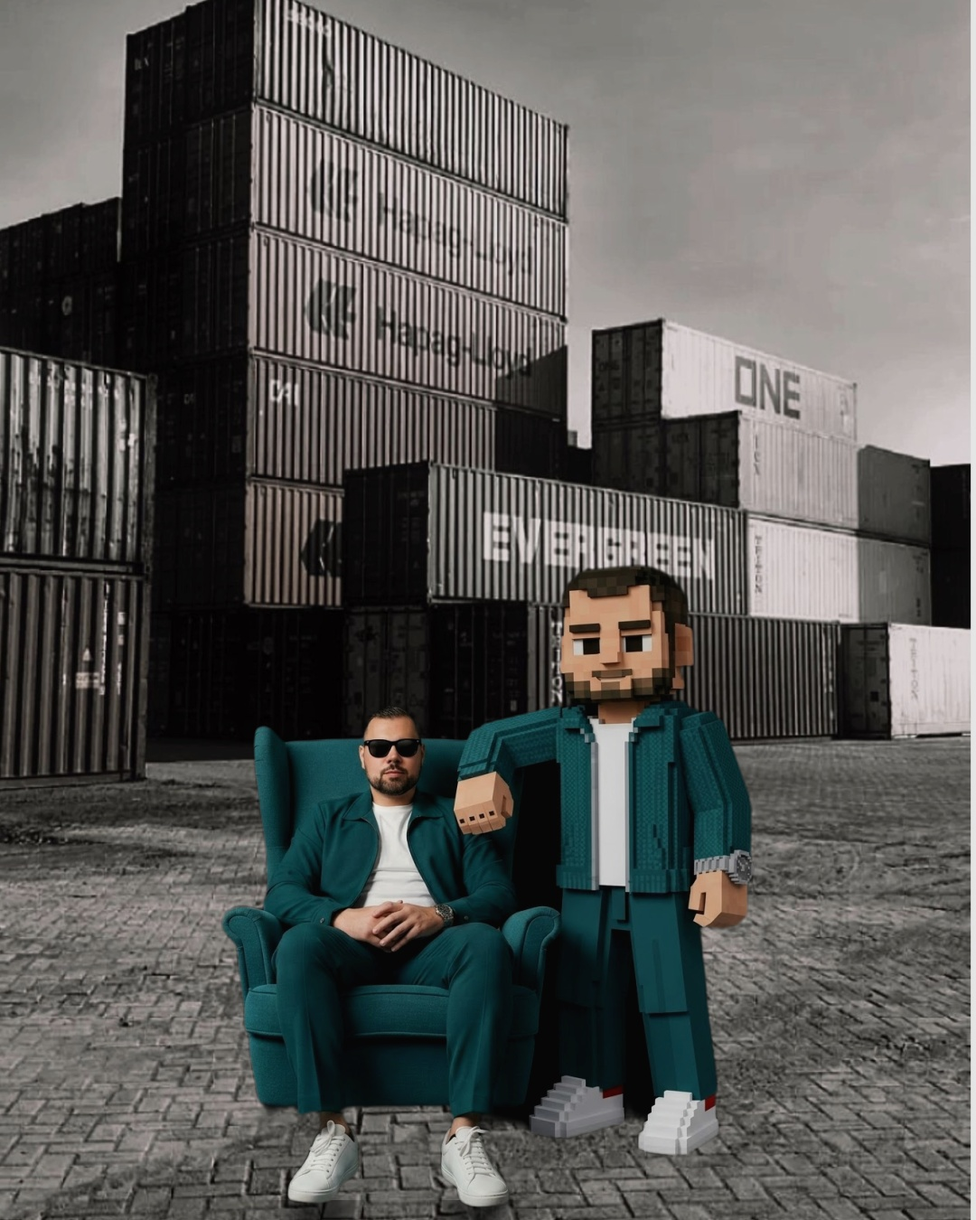
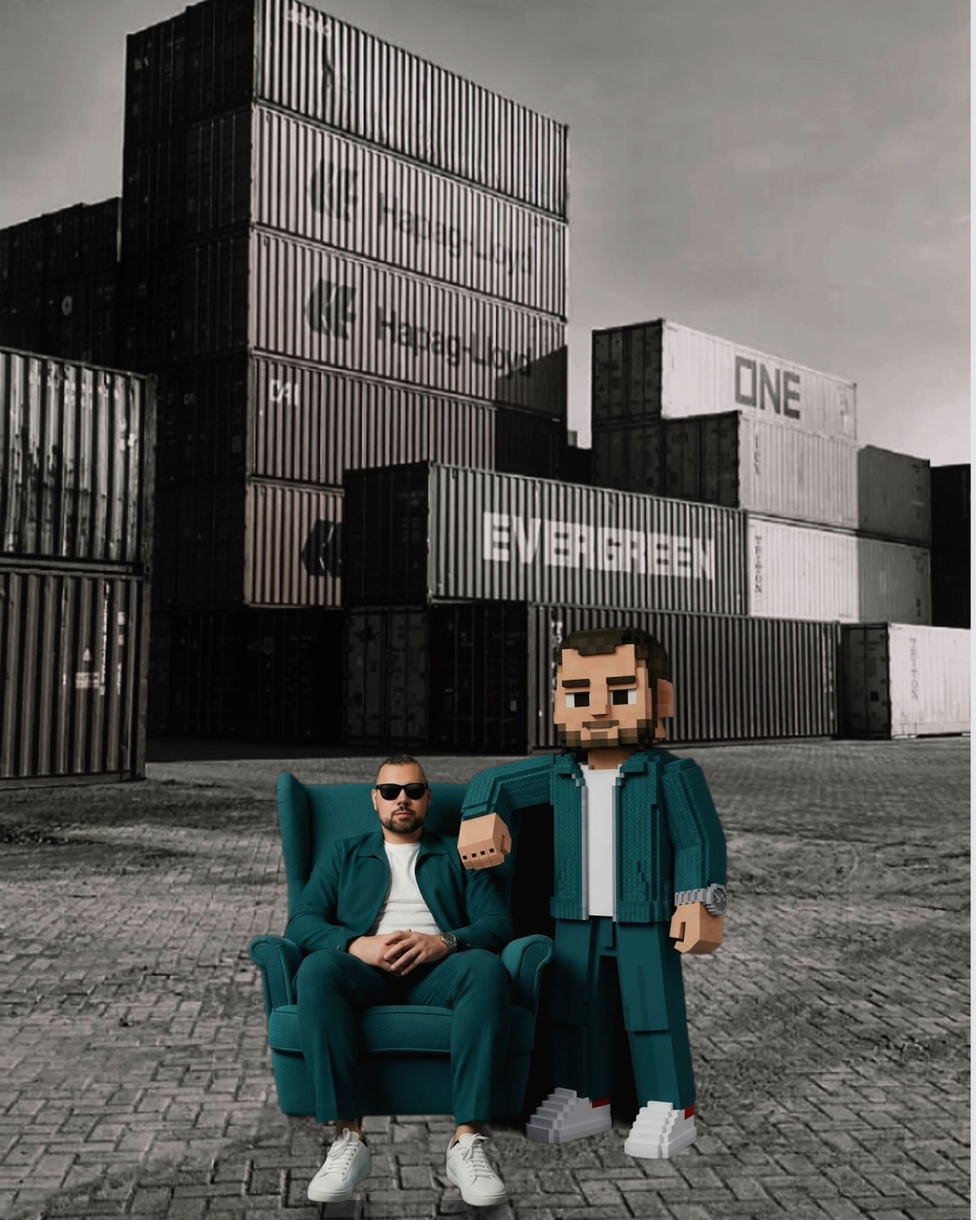
find-skills: portada con asfalto y diseño más minimalista
Asfalto como portada, contenedores en la slide 4, paneles sin caja,
textos más cortos y más aire entre elementos.

Claude-Session: https://claude.ai/code/session_018d4LXHkXweDJXxfN5x99dL

Changed region(s): [[0.2139, 0.4356, 0.7944, 1.0]]

diff --git a/carruseles/find-skills/carrusel.html b/carruseles/find-skills/carrusel.html
@@ -10,6 +10,7 @@ body{background:#333;font-family:"Montserrat",Arial,sans-serif;display:flex;flex
 .ph img{display:block;width:100%;height:auto}
 .bleed{position:absolute;inset:0;width:100%;height:100%;object-fit:cover}
 .shade{position:absolute;inset:0;background:linear-gradient(180deg,rgba(0,0,0,.66) 0,rgba(0,0,0,.34) 30%,rgba(0,0,0,0) 48%)}
+.shade.long{background:linear-gradient(180deg,rgba(0,0,0,.88) 0,rgba(0,0,0,.84) 38%,rgba(0,0,0,.55) 50%,rgba(0,0,0,0) 61%)}
 .n{position:absolute;top:50px;right:60px;z-index:5;background:rgba(40,40,40,.78);border:1px solid rgba(255,255,255,.18);color:#fff;font-weight:700;font-size:23px;padding:9px 20px;border-radius:99px}
 .kick{position:absolute;z-index:5;left:64px;top:62px;font-weight:800;font-size:24px;letter-spacing:.3em;text-transform:uppercase;color:#e8e8e2;display:flex;align-items:center;gap:16px}
 .kick i{width:46px;height:3px;background:var(--lime);display:block}
@@ -18,46 +19,47 @@ body{background:#333;font-family:"Montserrat",Arial,sans-serif;display:flex;flex
 .h .pill{display:inline-block;background:var(--lime);color:#0a0a0a;border-radius:18px;padding:0 22px 6px;margin-left:6px;text-shadow:none}
 .sub{position:absolute;z-index:5;left:64px;right:64px;top:318px;font-weight:600;font-size:31px;line-height:1.3;color:#ececE6;letter-spacing:-0.01em;text-shadow:0 2px 18px rgba(0,0,0,.6)}
 .sub b{color:#fff;font-weight:800}
-.panel{position:absolute;z-index:5;left:40px;right:40px;border-radius:34px;padding:12px 34px;background:linear-gradient(180deg,rgba(12,12,12,.58),rgba(12,12,12,.46));border:1.5px solid rgba(255,255,255,.24);backdrop-filter:blur(18px);-webkit-backdrop-filter:blur(18px);box-shadow:0 30px 60px -30px rgba(0,0,0,.8)}
-.row{display:flex;gap:24px;align-items:center;padding:14px 0;border-bottom:1px solid rgba(255,255,255,.2)}
+.panel{position:absolute;z-index:5;left:64px;right:64px}
+.panel{text-shadow:0 2px 14px rgba(0,0,0,.7)}
+.row{display:flex;gap:24px;align-items:center;padding:20px 0;border-bottom:1px solid rgba(255,255,255,.22)}
 .row.last{border-bottom:0}
 .cmp .row{padding:10px 0}.cmp .note{padding-bottom:10px}
-.cols{display:grid;grid-template-columns:repeat(3,1fr);gap:20px;padding:4px 0 14px}.cols>div{display:flex;flex-direction:column;gap:6px}.cols svg{width:44px;height:44px;color:#fff;margin-bottom:2px}.cols b{font-weight:800;font-size:27px;letter-spacing:-0.02em}.cols span{font-weight:500;font-size:21px;line-height:1.3;color:#dcdcd5}.cols code{font-family:"Courier New",monospace;font-weight:700;font-size:19px;word-break:break-all}
+.cols{display:grid;grid-template-columns:repeat(3,1fr);gap:28px;padding:6px 0 0}.cols>div{display:flex;flex-direction:column;gap:6px}.cols svg{width:44px;height:44px;color:#fff;margin-bottom:2px}.cols b{font-weight:800;font-size:27px;letter-spacing:-0.02em}.cols span{font-weight:500;font-size:21px;line-height:1.3;color:#dcdcd5}.cols code{font-family:"Courier New",monospace;font-weight:700;font-size:19px;word-break:break-all}
 .row .ic{flex:none;width:58px;height:58px;color:#fff;display:flex;align-items:center;justify-content:center}.row .ic svg{width:50px;height:50px}
 .row b{display:block;font-weight:800;font-size:30px;letter-spacing:-0.02em;line-height:1.15}
 .row span{display:block;font-weight:500;font-size:23px;line-height:1.3;color:#dcdcd5;margin-top:3px}
 .row code,.code{font-family:"Courier New",monospace;font-weight:700}
-.ph2{font-weight:800;font-size:30px;letter-spacing:-0.02em;padding:14px 0 8px}
-.chips{display:flex;flex-direction:column;gap:10px;align-items:flex-start;padding-bottom:16px;border-bottom:1px solid rgba(255,255,255,.2)}
-.chips span{border:1.5px solid rgba(255,255,255,.55);border-radius:99px;padding:9px 22px;font-weight:500;font-size:24px}
-.code{font-size:20px;line-height:1.35;padding:18px 4px 6px;color:#fff;word-break:break-all}
-.note{font-size:23px;font-weight:500;color:#dcdcd5;padding:4px 4px 16px;border-bottom:1px solid rgba(255,255,255,.2)}
+.ph2{font-weight:800;font-size:30px;letter-spacing:-0.02em;padding:8px 0 16px}
+.chips{display:flex;flex-direction:column;gap:14px;align-items:flex-start;padding:4px 0 26px;border-bottom:1px solid rgba(255,255,255,.22)}
+.chips span{border:1.5px solid rgba(255,255,255,.5);border-radius:99px;padding:11px 26px;font-weight:500;font-size:24px}
+.code{font-size:20px;line-height:1.4;padding:6px 0 10px;color:#fff;word-break:break-all}
+.note{font-size:23px;font-weight:500;color:#dcdcd5;padding:4px 0 22px;border-bottom:1px solid rgba(255,255,255,.22)}
 .foot{position:absolute;z-index:6;right:64px;bottom:34px;text-align:right;font-weight:700;font-size:19px;letter-spacing:.18em;text-transform:uppercase;color:rgba(255,255,255,.75);text-shadow:0 2px 12px rgba(0,0,0,.9)}
 </style></head><body>
-<section class="slide"><img class="bleed" src="img/f1.jpg"><div class="shade"></div><div class="n">1/7</div><div class="kick"><i></i>Find skills</div><div class="h" style="font-size:88px">Instala una sola skill.<br><span class="l">Que sea esta.</span></div><div class="sub">La más instalada de skills.sh: <b>más de 3 millones</b> de instalaciones.</div><div class="foot"><span>@funnelslabs</span></div></section><section class="slide"><img class="bleed" src="img/f2.jpg"><div class="shade"></div><div class="n">2/7</div><div class="kick"><i></i>Find skills</div><div class="h" style="font-size:84px">Claude no sabe<br><span class="l">qué skills existen.</span></div>
-<div class="panel" style="top:296px">
-<div class="row"><span class="ic"><svg viewBox="0 0 24 24" fill="none" stroke="currentColor" stroke-width="1.7" stroke-linecap="round" stroke-linejoin="round"><path d="M4 5.5c3-1.4 5.7-1.2 8 .6 2.3-1.8 5-2 8-.6v13c-3-1.4-5.7-1.2-8 .6-2.3-1.8-5-2-8-.6z"/><path d="M12 6.1v13"/></svg></span><div><b>Qué es una skill</b><span>Un archivo de instrucciones que le enseña una tarea nueva a Claude.</span></div></div>
-<div class="row"><span class="ic"><svg viewBox="0 0 24 24" fill="none" stroke="currentColor" stroke-width="1.7" stroke-linecap="round" stroke-linejoin="round"><circle cx="10.5" cy="10.5" r="6"/><path d="M15 15l5.5 5.5"/></svg></span><div><b>Qué hace find-skills</b><span>Busca en el catálogo la que necesitas y te ayuda a instalarla.</span></div></div>
-<div class="row last"><span class="ic"><svg viewBox="0 0 24 24" fill="none" stroke="currentColor" stroke-width="1.7" stroke-linecap="round" stroke-linejoin="round"><circle cx="12" cy="12" r="9"/><path d="M9.3 9.5a2.8 2.8 0 1 1 4.3 2.4c-.9.6-1.6 1.1-1.6 2.3"/><circle cx="12" cy="17.3" r=".6" fill="currentColor"/></svg></span><div><b>Por qué la necesitas</b><span>Sin ella, tendrías que buscar y probar skills una por una.</span></div></div>
-</div><div class="foot"><span>@funnelslabs</span></div></section><section class="slide"><img class="bleed" src="img/f3.jpg"><div class="shade"></div><div class="n">3/7</div><div class="kick"><i></i>Find skills</div><div class="h" style="font-size:84px">Dile qué necesitas,<br><span class="l">sin saber el nombre.</span></div>
-<div class="panel" style="top:296px">
-<div class="ph2">Pídeselo con tus propias palabras</div>
-<div class="chips"><span>¿Cómo respondo más rápido mis mensajes de WhatsApp?</span><span>Busca una skill para crear mis carruseles.</span><span>¿Existe una skill que revise la ortografía de mis textos?</span></div>
-<div class="row last"><span class="ic"><svg viewBox="0 0 24 24" fill="none" stroke="currentColor" stroke-width="1.7" stroke-linecap="round" stroke-linejoin="round"><path d="M12 3l7.5 3v5.5c0 4.5-3.2 8-7.5 9.5-4.3-1.5-7.5-5-7.5-9.5V6z"/><path d="M9 12l2.2 2.2L15.5 10"/></svg></span><div><b>Antes de instalarla</b><span>Revisa sus auditorías de seguridad en skills.sh. Una skill puede hacer lo mismo que tu Claude.</span></div></div>
-</div><div class="foot"><span>@funnelslabs</span></div></section><section class="slide"><img class="bleed" src="img/asfalto.png"><div class="shade"></div><div class="n">4/7</div><div class="kick"><i></i>Find skills</div><div class="h" style="font-size:96px">Una skill para<br><span class="l">encontrarlas todas.</span></div><div class="sub">Tú le dices qué necesitas. Ella busca por ti.</div><div class="foot"><span>@funnelslabs</span></div></section><section class="slide"><img class="bleed" src="img/f5.jpg"><div class="shade"></div><div class="n">5/7</div><div class="kick"><i></i>Find skills</div><div class="h" style="font-size:84px">Instálala con<br><span class="l">un solo comando.</span></div>
-<div class="panel cmp" style="top:296px">
+<section class="slide"><img class="bleed" src="img/asfalto.png"><div class="shade"></div><div class="n">1/7</div><div class="kick"><i></i>Find skills</div><div class="h" style="font-size:88px">Instala una sola skill.<br><span class="l">Que sea esta.</span></div><div class="sub">La más instalada de skills.sh: <b>más de 3 millones</b> de instalaciones.</div><div class="foot"><span>@funnelslabs</span></div></section><section class="slide"><img class="bleed" src="img/f2.jpg"><div class="shade long"></div><div class="n">2/7</div><div class="kick"><i></i>Find skills</div><div class="h" style="font-size:84px">Claude no sabe<br><span class="l">qué skills existen.</span></div>
+<div class="panel" style="top:340px">
+<div class="row"><span class="ic"><svg viewBox="0 0 24 24" fill="none" stroke="currentColor" stroke-width="1.7" stroke-linecap="round" stroke-linejoin="round"><path d="M4 5.5c3-1.4 5.7-1.2 8 .6 2.3-1.8 5-2 8-.6v13c-3-1.4-5.7-1.2-8 .6-2.3-1.8-5-2-8-.6z"/><path d="M12 6.1v13"/></svg></span><div><b>Qué es una skill</b><span>Instrucciones que le enseñan una tarea nueva a Claude.</span></div></div>
+<div class="row"><span class="ic"><svg viewBox="0 0 24 24" fill="none" stroke="currentColor" stroke-width="1.7" stroke-linecap="round" stroke-linejoin="round"><circle cx="10.5" cy="10.5" r="6"/><path d="M15 15l5.5 5.5"/></svg></span><div><b>Qué hace find-skills</b><span>Busca la que necesitas y te ayuda a instalarla.</span></div></div>
+<div class="row last"><span class="ic"><svg viewBox="0 0 24 24" fill="none" stroke="currentColor" stroke-width="1.7" stroke-linecap="round" stroke-linejoin="round"><circle cx="12" cy="12" r="9"/><path d="M9.3 9.5a2.8 2.8 0 1 1 4.3 2.4c-.9.6-1.6 1.1-1.6 2.3"/><circle cx="12" cy="17.3" r=".6" fill="currentColor"/></svg></span><div><b>Por qué la necesitas</b><span>Sin ella, buscarías skills una por una.</span></div></div>
+</div><div class="foot"><span>@funnelslabs</span></div></section><section class="slide"><img class="bleed" src="img/f3.jpg"><div class="shade long"></div><div class="n">3/7</div><div class="kick"><i></i>Find skills</div><div class="h" style="font-size:84px">Dile qué necesitas,<br><span class="l">sin saber el nombre.</span></div>
+<div class="panel" style="top:340px">
+<div class="ph2">Pídeselo con tus palabras</div>
+<div class="chips"><span>¿Cómo respondo más rápido en WhatsApp?</span><span>Busca una skill para mis carruseles.</span><span>¿Hay una skill que revise mi ortografía?</span></div>
+<div class="row last"><span class="ic"><svg viewBox="0 0 24 24" fill="none" stroke="currentColor" stroke-width="1.7" stroke-linecap="round" stroke-linejoin="round"><path d="M12 3l7.5 3v5.5c0 4.5-3.2 8-7.5 9.5-4.3-1.5-7.5-5-7.5-9.5V6z"/><path d="M9 12l2.2 2.2L15.5 10"/></svg></span><div><b>Antes de instalarla</b><span>Revisa sus auditorías de seguridad en skills.sh.</span></div></div>
+</div><div class="foot"><span>@funnelslabs</span></div></section><section class="slide"><img class="bleed" src="img/f4.jpg"><div class="shade"></div><div class="n">4/7</div><div class="kick"><i></i>Find skills</div><div class="h" style="font-size:96px">Una skill para<br><span class="l">encontrarlas todas.</span></div><div class="sub">Tú le dices qué necesitas. Ella busca por ti.</div><div class="foot"><span>@funnelslabs</span></div></section><section class="slide"><img class="bleed" src="img/f5.jpg"><div class="shade long"></div><div class="n">5/7</div><div class="kick"><i></i>Find skills</div><div class="h" style="font-size:84px">Instálala con<br><span class="l">un solo comando.</span></div>
+<div class="panel cmp" style="top:340px">
 <div class="code">npx skills add vercel-labs/skills --skill find-skills -a claude-code -g -y</div>
-<div class="note">Pégalo en tu terminal. Queda disponible en todos tus proyectos.</div>
-<div class="ph2" style="margin-top:8px;padding-bottom:2px">3 formas de buscar</div>
+<div class="note">Pégalo en tu terminal.</div>
+<div class="ph2" style="margin-top:22px">3 formas de buscar</div>
 <div class="cols">
 <div><svg viewBox="0 0 24 24" fill="none" stroke="currentColor" stroke-width="1.7" stroke-linecap="round" stroke-linejoin="round"><path d="M4 5h16v11H9.5L5 20v-4H4z"/></svg><b>En Claude</b><span>Pídeselo como hablas.</span></div>
 <div><svg viewBox="0 0 24 24" fill="none" stroke="currentColor" stroke-width="1.7" stroke-linecap="round" stroke-linejoin="round"><rect x="3" y="4.5" width="18" height="15" rx="2.5"/><path d="M7 10l3 2.5L7 15M12.5 15H17"/></svg><b>En la terminal</b><span><code>npx skills find [palabra]</code></span></div>
 <div><svg viewBox="0 0 24 24" fill="none" stroke="currentColor" stroke-width="1.7" stroke-linecap="round" stroke-linejoin="round"><rect x="3" y="4.5" width="18" height="15" rx="2.5"/><path d="M3 9.5h18"/><circle cx="6" cy="7" r=".5" fill="currentColor"/><circle cx="8.2" cy="7" r=".5" fill="currentColor"/></svg><b>En la web</b><span>skills.sh: las más usadas y las nuevas.</span></div>
 </div>
-</div><div class="foot"><span>@funnelslabs</span></div></section><section class="slide"><img class="bleed" src="img/f6.jpg"><div class="shade"></div><div class="n">6/7</div><div class="kick"><i></i>Find skills</div><div class="h" style="font-size:88px">Hazla tuya,<br><span class="l">con tus reglas.</span></div>
-<div class="panel" style="top:296px">
-<div class="row"><span class="ic"><svg viewBox="0 0 24 24" fill="none" stroke="currentColor" stroke-width="1.7" stroke-linecap="round" stroke-linejoin="round"><circle cx="12" cy="12" r="9"/><path d="M10.5 9.5L12.5 8v8"/></svg></span><div><b>1 · Encuentra la skill</b><span>find-skills te muestra la que más se parece a lo que haces.</span></div></div>
-<div class="row"><span class="ic"><svg viewBox="0 0 24 24" fill="none" stroke="currentColor" stroke-width="1.7" stroke-linecap="round" stroke-linejoin="round"><path d="M4 20l1-4L16.5 4.5a2 2 0 0 1 3 3L8 19z"/><path d="M14.5 6.5l3 3"/></svg></span><div><b>2 · Pídele a Claude que la adapte</b><span>Cuéntale cómo es tu negocio y cómo trabajas.</span></div></div>
-<div class="row last"><span class="ic"><svg viewBox="0 0 24 24" fill="none" stroke="currentColor" stroke-width="1.7" stroke-linecap="round" stroke-linejoin="round"><path d="M3.5 7.5a2 2 0 0 1 2-2H10l2 2.5h6.5a2 2 0 0 1 2 2V17a2 2 0 0 1-2 2h-13a2 2 0 0 1-2-2z"/><rect x="9.5" y="12.5" width="5" height="4" rx=".8"/></svg></span><div><b>3 · Guárdala con otro nombre</b><span>Así, cuando salga una versión nueva, no pierdes tus cambios.</span></div></div>
+</div><div class="foot"><span>@funnelslabs</span></div></section><section class="slide"><img class="bleed" src="img/f6.jpg"><div class="shade long"></div><div class="n">6/7</div><div class="kick"><i></i>Find skills</div><div class="h" style="font-size:88px">Hazla tuya,<br><span class="l">con tus reglas.</span></div>
+<div class="panel" style="top:340px">
+<div class="row"><span class="ic"><svg viewBox="0 0 24 24" fill="none" stroke="currentColor" stroke-width="1.7" stroke-linecap="round" stroke-linejoin="round"><circle cx="12" cy="12" r="9"/><path d="M10.5 9.5L12.5 8v8"/></svg></span><div><b>1 · Encuentra la skill</b><span>find-skills te muestra la más parecida a lo que haces.</span></div></div>
+<div class="row"><span class="ic"><svg viewBox="0 0 24 24" fill="none" stroke="currentColor" stroke-width="1.7" stroke-linecap="round" stroke-linejoin="round"><path d="M4 20l1-4L16.5 4.5a2 2 0 0 1 3 3L8 19z"/><path d="M14.5 6.5l3 3"/></svg></span><div><b>2 · Pídele a Claude que la adapte</b><span>Cuéntale cómo es tu negocio.</span></div></div>
+<div class="row last"><span class="ic"><svg viewBox="0 0 24 24" fill="none" stroke="currentColor" stroke-width="1.7" stroke-linecap="round" stroke-linejoin="round"><path d="M3.5 7.5a2 2 0 0 1 2-2H10l2 2.5h6.5a2 2 0 0 1 2 2V17a2 2 0 0 1-2 2h-13a2 2 0 0 1-2-2z"/><rect x="9.5" y="12.5" width="5" height="4" rx=".8"/></svg></span><div><b>3 · Guárdala con otro nombre</b><span>Así no pierdes tus cambios al actualizarla.</span></div></div>
 </div><div class="foot"><span>@funnelslabs</span></div></section><section class="slide"><img class="bleed" src="img/f7.jpg"><div class="shade"></div><div class="n">7/7</div><div class="kick"><i></i>Find skills</div><div class="h" style="font-size:92px">Escribe <span class="pill">SKILLS</span><br><span class="l">y te envío la guía.</span></div><div class="sub">Con el paso a paso para instalarla y adaptarla a tu negocio.</div><div class="foot"><span>@funnelslabs</span></div></section>
 </body></html>

diff --git a/carruseles/find-skills/generar.py b/carruseles/find-skills/generar.py
@@ -17,7 +17,7 @@ def row(k,t,d,last=False): return f'<div class="row{" last" if last else ""}"><s
 
 def photo(n,W,T,dx=0,extra=''):
     return f'<div class="ph" style="width:{W}px;top:{T}px;left:{(1080-W)//2+dx}px;{extra}"><img src="img/{n}-c.png"></div>'
-def BG(n): return f'<img class="bleed" src="img/f{n}.jpg"><div class="shade"></div>'
+def BG(n): return f'<img class="bleed" src="img/f{n}.jpg"><div class="shade{" long" if n in (2,3,5,6) else ""}"></div>'
 def head(i,l1,l2,sub=None,size=88):
     s=f'<div class="n">{i}/7</div><div class="kick"><i></i>Find skills</div><div class="h" style="font-size:{size}px">{l1}<br><span class="l">{l2}</span></div>'
     if sub: s+=f'<div class="sub">{sub}</div>'
@@ -26,29 +26,29 @@ foot='<div class="foot"><span>@funnelslabs</span></div>'
 
 S=[]
 # 1 portada
-S.append(f'''<section class="slide">{BG(1)}{head(1,'Instala una sola skill.','Que sea esta.','La más instalada de skills.sh: <b>más de 3 millones</b> de instalaciones.',88)}{foot}</section>''')
+S.append(f'''<section class="slide"><img class="bleed" src="img/asfalto.png"><div class="shade"></div>{head(1,'Instala una sola skill.','Que sea esta.','La más instalada de skills.sh: <b>más de 3 millones</b> de instalaciones.',88)}{foot}</section>''')
 # 2 qué es
 S.append(f'''<section class="slide">{BG(2)}{head(2,'Claude no sabe','qué skills existen.',None,84)}
-<div class="panel" style="top:296px">
-{row('book','Qué es una skill','Un archivo de instrucciones que le enseña una tarea nueva a Claude.')}
-{row('search','Qué hace find-skills','Busca en el catálogo la que necesitas y te ayuda a instalarla.')}
-{row('help','Por qué la necesitas','Sin ella, tendrías que buscar y probar skills una por una.',True)}
+<div class="panel" style="top:340px">
+{row('book','Qué es una skill','Instrucciones que le enseñan una tarea nueva a Claude.')}
+{row('search','Qué hace find-skills','Busca la que necesitas y te ayuda a instalarla.')}
+{row('help','Por qué la necesitas','Sin ella, buscarías skills una por una.',True)}
 </div>{foot}</section>''')
 # 3 cuéntale
 S.append(f'''<section class="slide">{BG(3)}{head(3,'Dile qué necesitas,','sin saber el nombre.',None,84)}
-<div class="panel" style="top:296px">
-<div class="ph2">Pídeselo con tus propias palabras</div>
-<div class="chips"><span>¿Cómo respondo más rápido mis mensajes de WhatsApp?</span><span>Busca una skill para crear mis carruseles.</span><span>¿Existe una skill que revise la ortografía de mis textos?</span></div>
-{row('shield','Antes de instalarla','Revisa sus auditorías de seguridad en skills.sh. Una skill puede hacer lo mismo que tu Claude.',True)}
+<div class="panel" style="top:340px">
+<div class="ph2">Pídeselo con tus palabras</div>
+<div class="chips"><span>¿Cómo respondo más rápido en WhatsApp?</span><span>Busca una skill para mis carruseles.</span><span>¿Hay una skill que revise mi ortografía?</span></div>
+{row('shield','Antes de instalarla','Revisa sus auditorías de seguridad en skills.sh.',True)}
 </div>{foot}</section>''')
 # 4 afirmación (asfalto a sangre)
-S.append(f'''<section class="slide"><img class="bleed" src="img/asfalto.png"><div class="shade"></div>{head(4,'Una skill para','encontrarlas todas.','Tú le dices qué necesitas. Ella busca por ti.',96)}{foot}</section>''')
+S.append(f'''<section class="slide">{BG(4)}{head(4,'Una skill para','encontrarlas todas.','Tú le dices qué necesitas. Ella busca por ti.',96)}{foot}</section>''')
 # 5 instalar
 S.append(f'''<section class="slide">{BG(5)}{head(5,'Instálala con','un solo comando.',None,84)}
-<div class="panel cmp" style="top:296px">
+<div class="panel cmp" style="top:340px">
 <div class="code">npx skills add vercel-labs/skills --skill find-skills -a claude-code -g -y</div>
-<div class="note">Pégalo en tu terminal. Queda disponible en todos tus proyectos.</div>
-<div class="ph2" style="margin-top:8px;padding-bottom:2px">3 formas de buscar</div>
+<div class="note">Pégalo en tu terminal.</div>
+<div class="ph2" style="margin-top:22px">3 formas de buscar</div>
 <div class="cols">
 <div>{ic('chat')}<b>En Claude</b><span>Pídeselo como hablas.</span></div>
 <div>{ic('term')}<b>En la terminal</b><span><code>npx skills find [palabra]</code></span></div>
@@ -57,10 +57,10 @@ S.append(f'''<section class="slide">{BG(5)}{head(5,'Instálala con','un solo com
 </div>{foot}</section>''')
 # 6 hazla tuya
 S.append(f'''<section class="slide">{BG(6)}{head(6,'Hazla tuya,','con tus reglas.',None,88)}
-<div class="panel" style="top:296px">
-{row('one','1 · Encuentra la skill','find-skills te muestra la que más se parece a lo que haces.')}
-{row('pencil','2 · Pídele a Claude que la adapte','Cuéntale cómo es tu negocio y cómo trabajas.')}
-{row('folder','3 · Guárdala con otro nombre','Así, cuando salga una versión nueva, no pierdes tus cambios.',True)}
+<div class="panel" style="top:340px">
+{row('one','1 · Encuentra la skill','find-skills te muestra la más parecida a lo que haces.')}
+{row('pencil','2 · Pídele a Claude que la adapte','Cuéntale cómo es tu negocio.')}
+{row('folder','3 · Guárdala con otro nombre','Así no pierdes tus cambios al actualizarla.',True)}
 </div>{foot}</section>''')
 # 7 CTA
 S.append(f'''<section class="slide">{BG(7)}{head(7,'Escribe <span class="pill">SKILLS</span>','y te envío la guía.','Con el paso a paso para instalarla y adaptarla a tu negocio.',92)}{foot}</section>''')
@@ -74,6 +74,7 @@ body{background:#333;font-family:"Montserrat",Arial,sans-serif;display:flex;flex
 .ph img{display:block;width:100%;height:auto}
 .bleed{position:absolute;inset:0;width:100%;height:100%;object-fit:cover}
 .shade{position:absolute;inset:0;background:linear-gradient(180deg,rgba(0,0,0,.66) 0,rgba(0,0,0,.34) 30%,rgba(0,0,0,0) 48%)}
+.shade.long{background:linear-gradient(180deg,rgba(0,0,0,.88) 0,rgba(0,0,0,.84) 38%,rgba(0,0,0,.55) 50%,rgba(0,0,0,0) 61%)}
 .n{position:absolute;top:50px;right:60px;z-index:5;background:rgba(40,40,40,.78);border:1px solid rgba(255,255,255,.18);color:#fff;font-weight:700;font-size:23px;padding:9px 20px;border-radius:99px}
 .kick{position:absolute;z-index:5;left:64px;top:62px;font-weight:800;font-size:24px;letter-spacing:.3em;text-transform:uppercase;color:#e8e8e2;display:flex;align-items:center;gap:16px}
 .kick i{width:46px;height:3px;background:var(--lime);display:block}
@@ -82,20 +83,21 @@ body{background:#333;font-family:"Montserrat",Arial,sans-serif;display:flex;flex
 .h .pill{display:inline-block;background:var(--lime);color:#0a0a0a;border-radius:18px;padding:0 22px 6px;margin-left:6px;text-shadow:none}
 .sub{position:absolute;z-index:5;left:64px;right:64px;top:318px;font-weight:600;font-size:31px;line-height:1.3;color:#ececE6;letter-spacing:-0.01em;text-shadow:0 2px 18px rgba(0,0,0,.6)}
 .sub b{color:#fff;font-weight:800}
-.panel{position:absolute;z-index:5;left:40px;right:40px;border-radius:34px;padding:12px 34px;background:linear-gradient(180deg,rgba(12,12,12,.58),rgba(12,12,12,.46));border:1.5px solid rgba(255,255,255,.24);backdrop-filter:blur(18px);-webkit-backdrop-filter:blur(18px);box-shadow:0 30px 60px -30px rgba(0,0,0,.8)}
-.row{display:flex;gap:24px;align-items:center;padding:14px 0;border-bottom:1px solid rgba(255,255,255,.2)}
+.panel{position:absolute;z-index:5;left:64px;right:64px}
+.panel{text-shadow:0 2px 14px rgba(0,0,0,.7)}
+.row{display:flex;gap:24px;align-items:center;padding:20px 0;border-bottom:1px solid rgba(255,255,255,.22)}
 .row.last{border-bottom:0}
 .cmp .row{padding:10px 0}.cmp .note{padding-bottom:10px}
-.cols{display:grid;grid-template-columns:repeat(3,1fr);gap:20px;padding:4px 0 14px}.cols>div{display:flex;flex-direction:column;gap:6px}.cols svg{width:44px;height:44px;color:#fff;margin-bottom:2px}.cols b{font-weight:800;font-size:27px;letter-spacing:-0.02em}.cols span{font-weight:500;font-size:21px;line-height:1.3;color:#dcdcd5}.cols code{font-family:"Courier New",monospace;font-weight:700;font-size:19px;word-break:break-all}
+.cols{display:grid;grid-template-columns:repeat(3,1fr);gap:28px;padding:6px 0 0}.cols>div{display:flex;flex-direction:column;gap:6px}.cols svg{width:44px;height:44px;color:#fff;margin-bottom:2px}.cols b{font-weight:800;font-size:27px;letter-spacing:-0.02em}.cols span{font-weight:500;font-size:21px;line-height:1.3;color:#dcdcd5}.cols code{font-family:"Courier New",monospace;font-weight:700;font-size:19px;word-break:break-all}
 .row .ic{flex:none;width:58px;height:58px;color:#fff;display:flex;align-items:center;justify-content:center}.row .ic svg{width:50px;height:50px}
 .row b{display:block;font-weight:800;font-size:30px;letter-spacing:-0.02em;line-height:1.15}
 .row span{display:block;font-weight:500;font-size:23px;line-height:1.3;color:#dcdcd5;margin-top:3px}
 .row code,.code{font-family:"Courier New",monospace;font-weight:700}
-.ph2{font-weight:800;font-size:30px;letter-spacing:-0.02em;padding:14px 0 8px}
-.chips{display:flex;flex-direction:column;gap:10px;align-items:flex-start;padding-bottom:16px;border-bottom:1px solid rgba(255,255,255,.2)}
-.chips span{border:1.5px solid rgba(255,255,255,.55);border-radius:99px;padding:9px 22px;font-weight:500;font-size:24px}
-.code{font-size:20px;line-height:1.35;padding:18px 4px 6px;color:#fff;word-break:break-all}
-.note{font-size:23px;font-weight:500;color:#dcdcd5;padding:4px 4px 16px;border-bottom:1px solid rgba(255,255,255,.2)}
+.ph2{font-weight:800;font-size:30px;letter-spacing:-0.02em;padding:8px 0 16px}
+.chips{display:flex;flex-direction:column;gap:14px;align-items:flex-start;padding:4px 0 26px;border-bottom:1px solid rgba(255,255,255,.22)}
+.chips span{border:1.5px solid rgba(255,255,255,.5);border-radius:99px;padding:11px 26px;font-weight:500;font-size:24px}
+.code{font-size:20px;line-height:1.4;padding:6px 0 10px;color:#fff;word-break:break-all}
+.note{font-size:23px;font-weight:500;color:#dcdcd5;padding:4px 0 22px;border-bottom:1px solid rgba(255,255,255,.22)}
 .foot{position:absolute;z-index:6;right:64px;bottom:34px;text-align:right;font-weight:700;font-size:19px;letter-spacing:.18em;text-transform:uppercase;color:rgba(255,255,255,.75);text-shadow:0 2px 12px rgba(0,0,0,.9)}
 '''
 html=f'''<!doctype html><html lang="es"><head><meta charset="utf-8"><title>Find skills — Funnels Labs</title>

diff --git a/carruseles/find-skills/fondos.py b/carruseles/find-skills/fondos.py
@@ -5,10 +5,10 @@ from PIL import Image
 os.chdir(os.path.dirname(os.path.abspath(__file__)))
 W,H=1080,1350
 # slide: (fondo, personaje, y0 del recorte original, ancho, top, dx, ajustes del fondo)
-PT={2:626,3:706,5:657,6:626}  # y de la cabeza = borde inferior del panel + 16
+PT={2:694,3:752,5:692,6:694}  # y de la cabeza = borde inferior del panel + 16
 FEET=1335
 CFG={
- 1:dict(bg=1,ch='brazos',   w=860,top=404,y0=194,dx=0, shift=0.0,bright=.92),
+ 4:dict(bg=1,ch='brazos',   w=860,top=404,y0=194,dx=0, shift=0.0,bright=.92),
  2:dict(bg=2,ch='silla-lado',ytop=PT[2],dx=0,shift=1.0,bright=.90),
  3:dict(bg=3,ch='chat',     ytop=PT[3],dx=0, shift=1.0,bright=.95),
  5:dict(bg=4,ch='caminando',ytop=PT[5],dx=0, shift=1.0,bright=.85,billboard=True),
